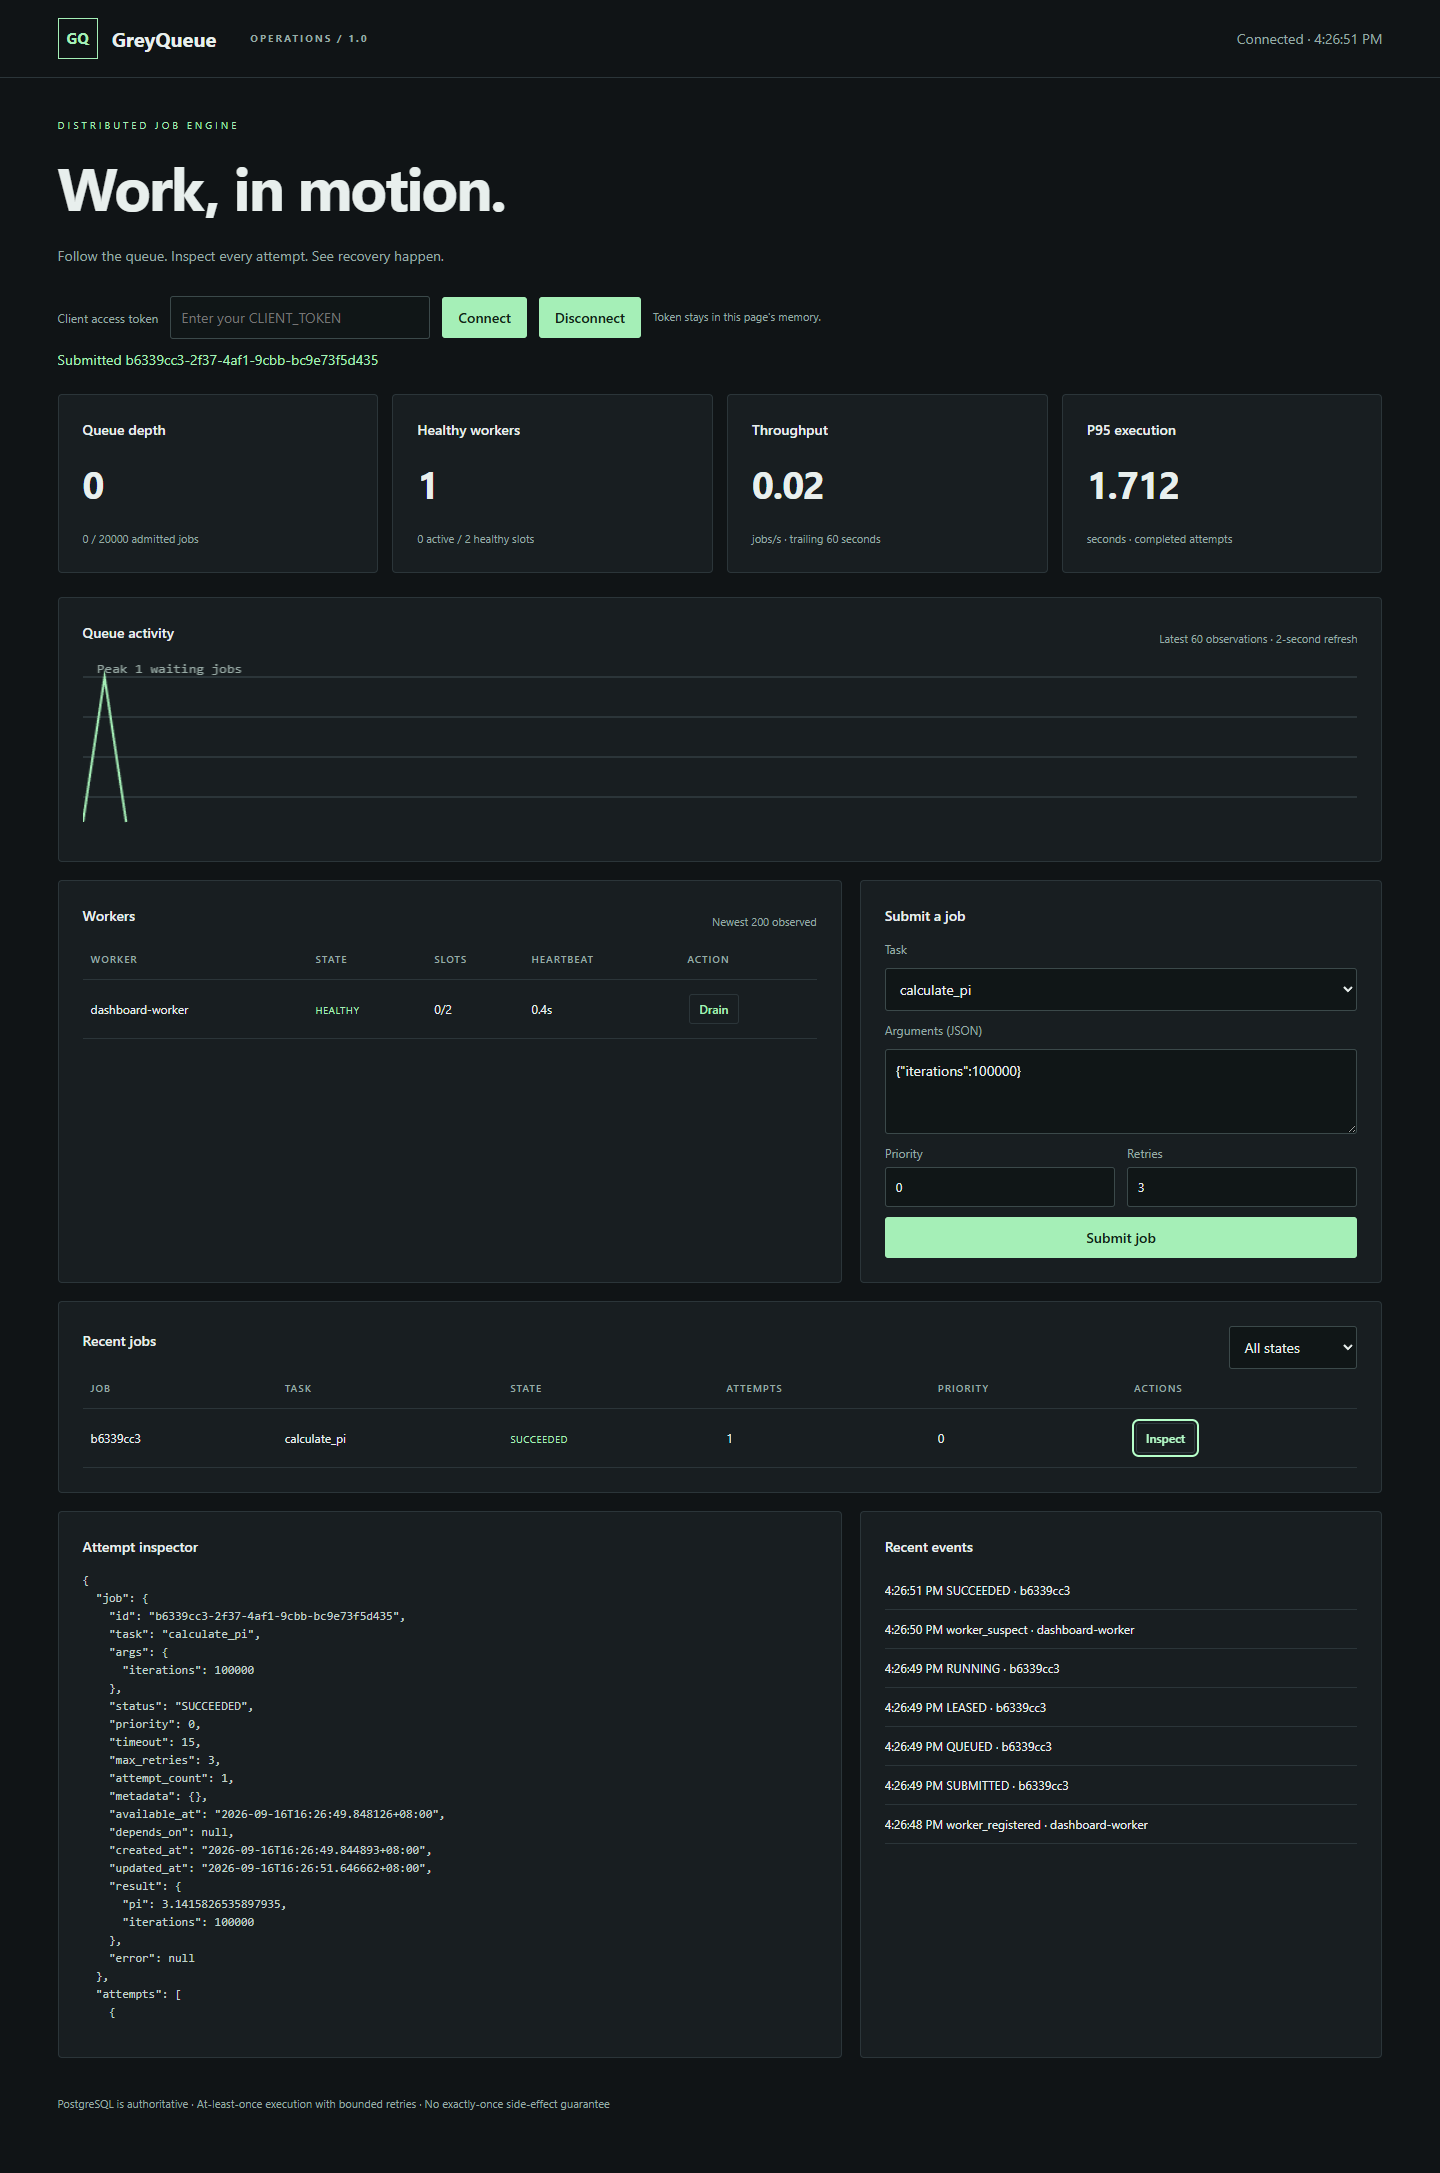
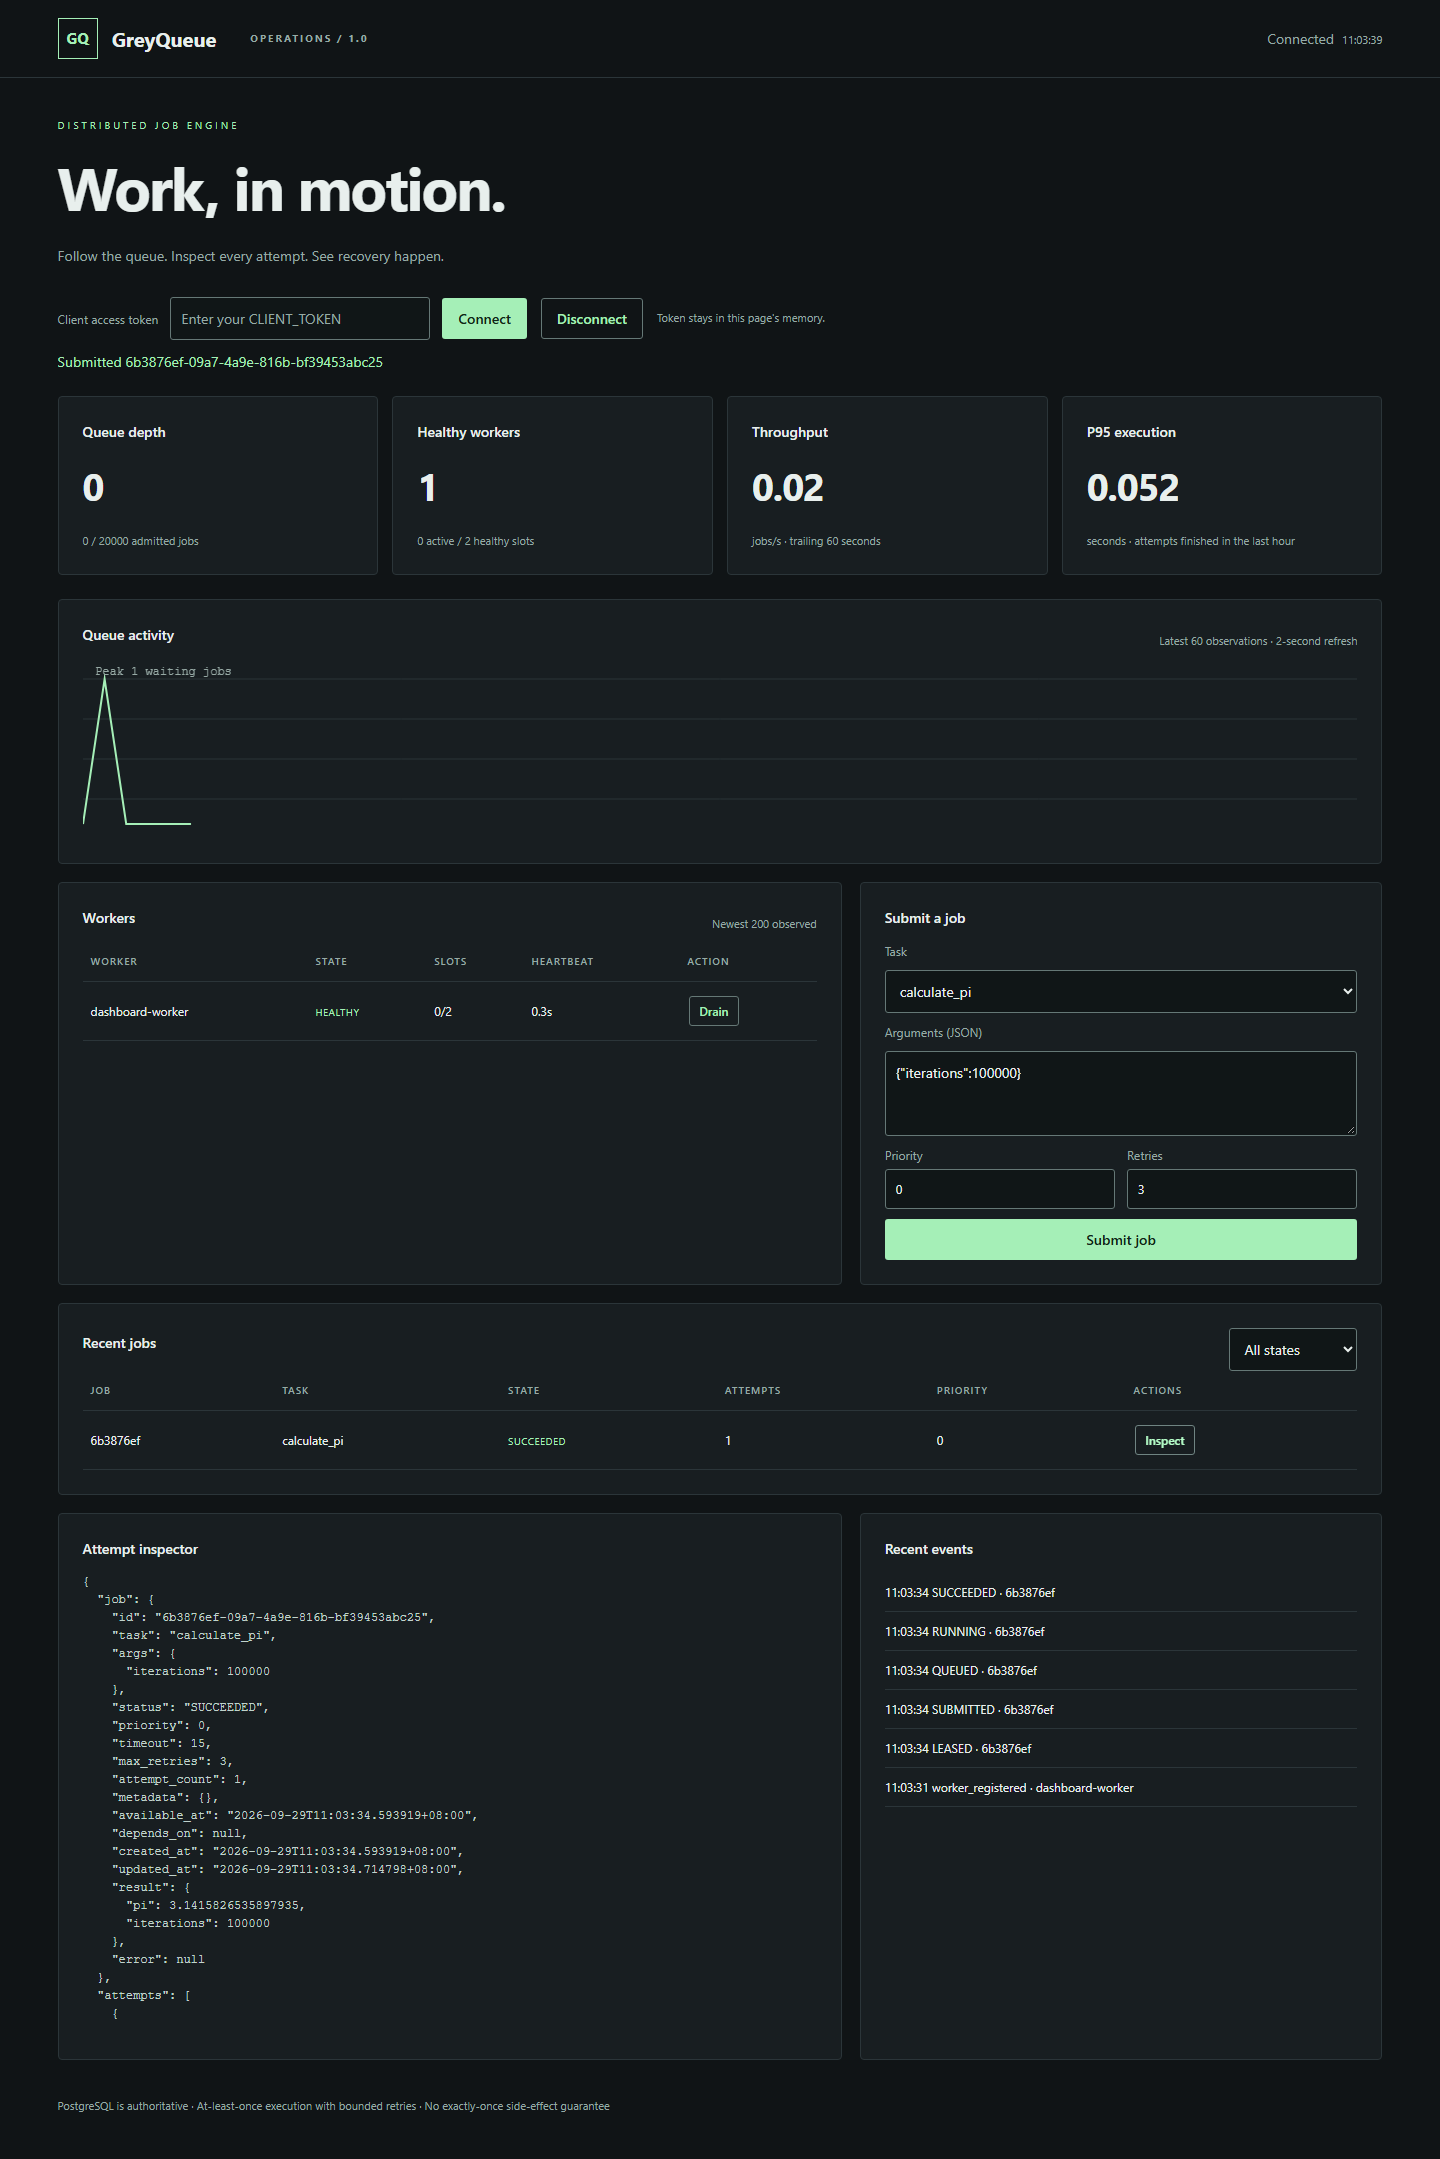
Regenerate evidence on the current code and record it honestly
Re-ran the experiments (including the real database outage), the
side-effect demo, the read profile, the browser check and the 10,000-job
benchmark after both audit rounds. All passed. The benchmark measured
38.15 jobs/s against 44.99 at v1.0; with one run each that difference is
recorded as unexplained rather than hidden. The 100-job matrix and the
1,000-job mixed run remain v1.0 recordings.

diff --git a/.claude/agents/prd.md b/.claude/agents/prd.md
@@ -39,10 +39,10 @@ Named future candidates: multi-parent joins, an adaptive scheduler (ADR 002), sh
 
 ## Honesty rules for claims
 1. **Guarantees keep the docs' exact strength:** "at-least-once delivery attempts with a bounded retry budget" (a job can dead-letter without executing), "not a promise that every accepted task eventually succeeds", "fencing protects GreyQueue updates, not external effects". Never say "exactly-once", "never runs twice", "nothing is lost", "guaranteed delivery", "production-ready" or "highly available". "Workers claim jobs" is accurate; "a scheduler hands jobs to workers" is not.
-2. **Benchmarks are single local observations** (Windows 11, 8C/16T, 31 GiB), recorded at v1.0 *before* the audit rounds' index/metric changes (`docs/benchmarks.md`). Quote a figure only with its workload, job count, worker × slot count and "recorded at v1.0", matching `docs/results/benchmark-*.json` exactly. For example, 44.99 jobs/s and P95 38.165 s are for 10,000 *light hash* jobs on 3 workers × 2 slots.
+2. **Benchmarks are single local observations** (Windows 11, 8C/16T, 31 GiB). Quote a figure only with its workload, job count, worker × slot count and recording date, matching `docs/results/benchmark-*.json` exactly. The current 10,000 *light hash* run on 3 workers × 2 slots is 38.15 jobs/s, P95 41.064 s (2026-09-29); the v1.0 run of the same workload was 44.99 jobs/s, and the difference is unexplained by a single run each (`docs/benchmarks.md`). The 100-job matrix and 1,000-job mixed run are still v1.0 recordings.
 3. **Test counts:** 71 collected, of which 35 run against PostgreSQL and 36 need no database (`-m "not integration"`). Re-check with `pytest --collect-only` before repeating. "Collected" is not "passed", because DB tests skip without `TEST_DATABASE_URL`.
 4. **CI** runs lint, migrations, pytest with a database, experiments (without the DB outage), side-effects, profiling, the browser check, the full Compose check (which builds the image) and the role-privilege check. It does **not** run the outage experiment or benchmarks. Don't say "CI passes" without a current run result.
-5. **Most recorded evidence predates the audit fixes.** Only `compose.json` was regenerated afterwards. Ask `testing` which files are current; you decide what may be claimed from them. The role, restart and restore checks in `validation.md` were run by hand (the role check is now also automated in CI) and are not in any JSON. Query-plan timings in `validation.md` are local observations.
+5. **Evidence was regenerated after the audit fixes** (2026-09-29) except the 100-job matrix and 1,000-job mixed benchmarks. Ask `testing` which files are current; you decide what may be claimed from them. The role, restart and restore checks in `validation.md` were run by hand (the role check is now also automated in CI) and are not in any JSON. Query-plan timings in `validation.md` are local observations.
 6. **Failure-model rows** need the named test or an entry in `docs/results/experiments.json`. Some rows are narrower than they sound: the coordinator-restart experiment asserts completion, not the transport retries; worker-loop behaviours (rejected results, revoked sessions, executor errors) are tested against a *mock* coordinator (`tests/test_worker.py`), not a live one.
 7. "101 SQL statements → 2" is the strong optimisation claim; the millisecond timings are weaker.
 

diff --git a/docs/validation.md b/docs/validation.md
@@ -17,9 +17,9 @@ Ruff lint and formatting pass. Alembic reports no schema drift, with server-defa
 | v0.6 measurements | `python -m benchmarks.run --jobs 10000 --strategy hybrid --workload light` | [10,000 jobs](results/benchmark-10000-hybrid-light.json), [1,000 jobs](results/benchmark-1000-hybrid-mixed.json), [read optimization](results/read-optimization.json) |
 | v1.0 hardening/extensions | Tests + two-coordinator experiment + Compose check | [Process experiments](results/experiments.json), [Docker verification](results/compose.json), security/migration tests |
 
-Apart from `compose.json`, the files in `results/` were recorded at the v1.0 release. The post-release audit fixes (two rounds: claim replay, renewal, worker error handling, drain intent, locked session checks, queue indexes, dashboard states, container hardening) were verified by the automated tests above, a local multi-process smoke run, the Compose runs below and a browser run of every dashboard check (`python -m scripts.check_dashboard --dry-run`, which records nothing); the recorded process, browser and benchmark evidence has not yet been regenerated for them. Re-run the demonstrations above to refresh it.
+After both audit rounds (claim replay, renewal, worker error handling, drain intent, locked session checks, queue indexes, dashboard states, container hardening), the evidence was regenerated on 2026-09-29 against the current code: `experiments.json` (all seven, including the real database outage), `side-effects.json` (reproduced identically), `read-optimization.json`, `dashboard-check.json` with both screenshots (11 browser checks), `benchmark-10000-hybrid-light.json` and `compose.json`. Only `benchmark-100-matrix.json` and `benchmark-1000-hybrid-mixed.json` are still the v1.0 recordings.
 
-At v1.0, all seven native process experiments passed, including an actual temporary outage of the isolated project PostgreSQL cluster. Browser checks passed with zero JavaScript errors and no horizontal overflow at a 390-pixel viewport. Both side-effect experiments used real child process exits after independent sink commits.
+On the current code (as at v1.0), all seven native process experiments passed, including an actual temporary outage of the isolated project PostgreSQL cluster. Browser checks passed with zero JavaScript errors and no horizontal overflow at a 390-pixel viewport. Both side-effect experiments used real child process exits after independent sink commits.
 
 The benchmark matrix and larger runs completed with zero execution failures/retries. These are single-machine observations with full environment metadata, not production capacity claims. Historical v0.1 evidence is preserved separately in [v0.1-smoke.json](results/v0.1-smoke.json).
 

diff --git a/docs/benchmarks.md b/docs/benchmarks.md
@@ -10,12 +10,12 @@ The read-path optimization batches result lookup for a page. `python -m scripts.
 
 ## Recorded local results
 
-Recorded at the v1.0 release, before the audit changes to queue indexes and metric windows; re-run to measure the current code.
+The 10,000-job run and the read-path profile were re-recorded on 2026-09-29, after both audit rounds. The 100-job matrix and the 1,000-job mixed run are still the v1.0 recordings (2026-09-16).
 
 - 100-job matrix: all 12 strategy/workload cases completed without execution failures or retries.
-- 1,000 mixed jobs, hybrid, 3 workers x 2 slots: 44.29 jobs/s; P95 end-to-end latency 7.714 seconds.
-- 10,000 light jobs, hybrid, 3 workers x 2 slots: 44.99 jobs/s; P95 38.165 seconds; peak queue depth 2,041; zero execution/submission retries and failures.
+- 1,000 mixed jobs, hybrid, 3 workers x 2 slots (v1.0): 44.29 jobs/s; P95 end-to-end latency 7.714 seconds.
+- 10,000 light jobs, hybrid, 3 workers x 2 slots (current code): 38.15 jobs/s; P50 25.49 s, P95 41.064 seconds; peak queue depth 1,878; zero execution/submission retries and failures. The v1.0 run of the same workload recorded 44.99 jobs/s, P50 30.68 s, P95 38.165 s and peak 2,041. With one run each, the 15% lower throughput is not established as a regression or as noise; average execution rose from 43 ms to 51 ms, and every worker request now waits for its worker-row lock (the session check added to close a takeover race), which is a plausible contributor. Repeated runs of both commits would be needed to separate the two.
 - Hardware: Windows 11, 8 physical / 16 logical CPUs, 31.31 GiB RAM; full CPU identifier and timestamps are in each JSON artifact.
-- 100-result page: 101 SQL statements reduced to 2 with identical output. The recorded local timings were about 36.4 ms and 4.8 ms; query count is the stronger reproducible result.
+- 100-result page: 101 SQL statements reduced to 2 with identical output. The latest local timings were about 46.6 ms and 5.8 ms (v1.0: 36.4 ms and 4.8 ms); query count is the stronger reproducible result.
 
 These figures describe different workloads and queue depths. The larger run's higher latency reflects waiting behind queued work; it does not imply a slower individual hash task.

diff --git a/.claude/agents/testing.md b/.claude/agents/testing.md
@@ -43,7 +43,7 @@ Find the cause; don't lengthen sleeps. Reference: the process-pool timeout test 
 ## "Tests pass" vs "verified"
 - **Not covered by pytest:** real multi-process crash recovery, the database outage, the Compose stack and its role grants, the browser dashboard, benchmarks. These run via `scripts/*` and `benchmarks/run.py`. `check_dashboard --dry-run` runs every browser check without writing evidence.
 - **CI** (`.github/workflows/ci.yml:25-60`) runs lint, migrations, pytest *with* the database, experiments **without** `--database-outage`, side_effects, profile_reads, `check_dashboard`, `configure.py`, the Compose stack, `check_compose` and `check_roles.sh`. It uploads `docs/results/` as an artifact, **not a commit**. CI never runs the outage experiment or the benchmarks, and runs on Linux only (Windows behaviour is local-only).
-- **Evidence currency.** Committed `docs/results/*.json` can be older than the code; after the audit rounds only `compose.json` is current. Compare `git log -1 -- docs/results/<file>` with the last change to the code it measures. `prd` decides what may be claimed; you say what is actually current.
+- **Evidence currency.** Committed `docs/results/*.json` can be older than the code; after the audit rounds everything was regenerated on 2026-09-29 except `benchmark-100-matrix.*` and `benchmark-1000-hybrid-mixed.*`, which are still v1.0. Compare `git log -1 -- docs/results/<file>` with the last change to the code it measures. `prd` decides what may be claimed; you say what is actually current.
 
 ## Output
 - **For a run:** passed/failed/**skipped** counts, whether the DB was available, and any warnings.
